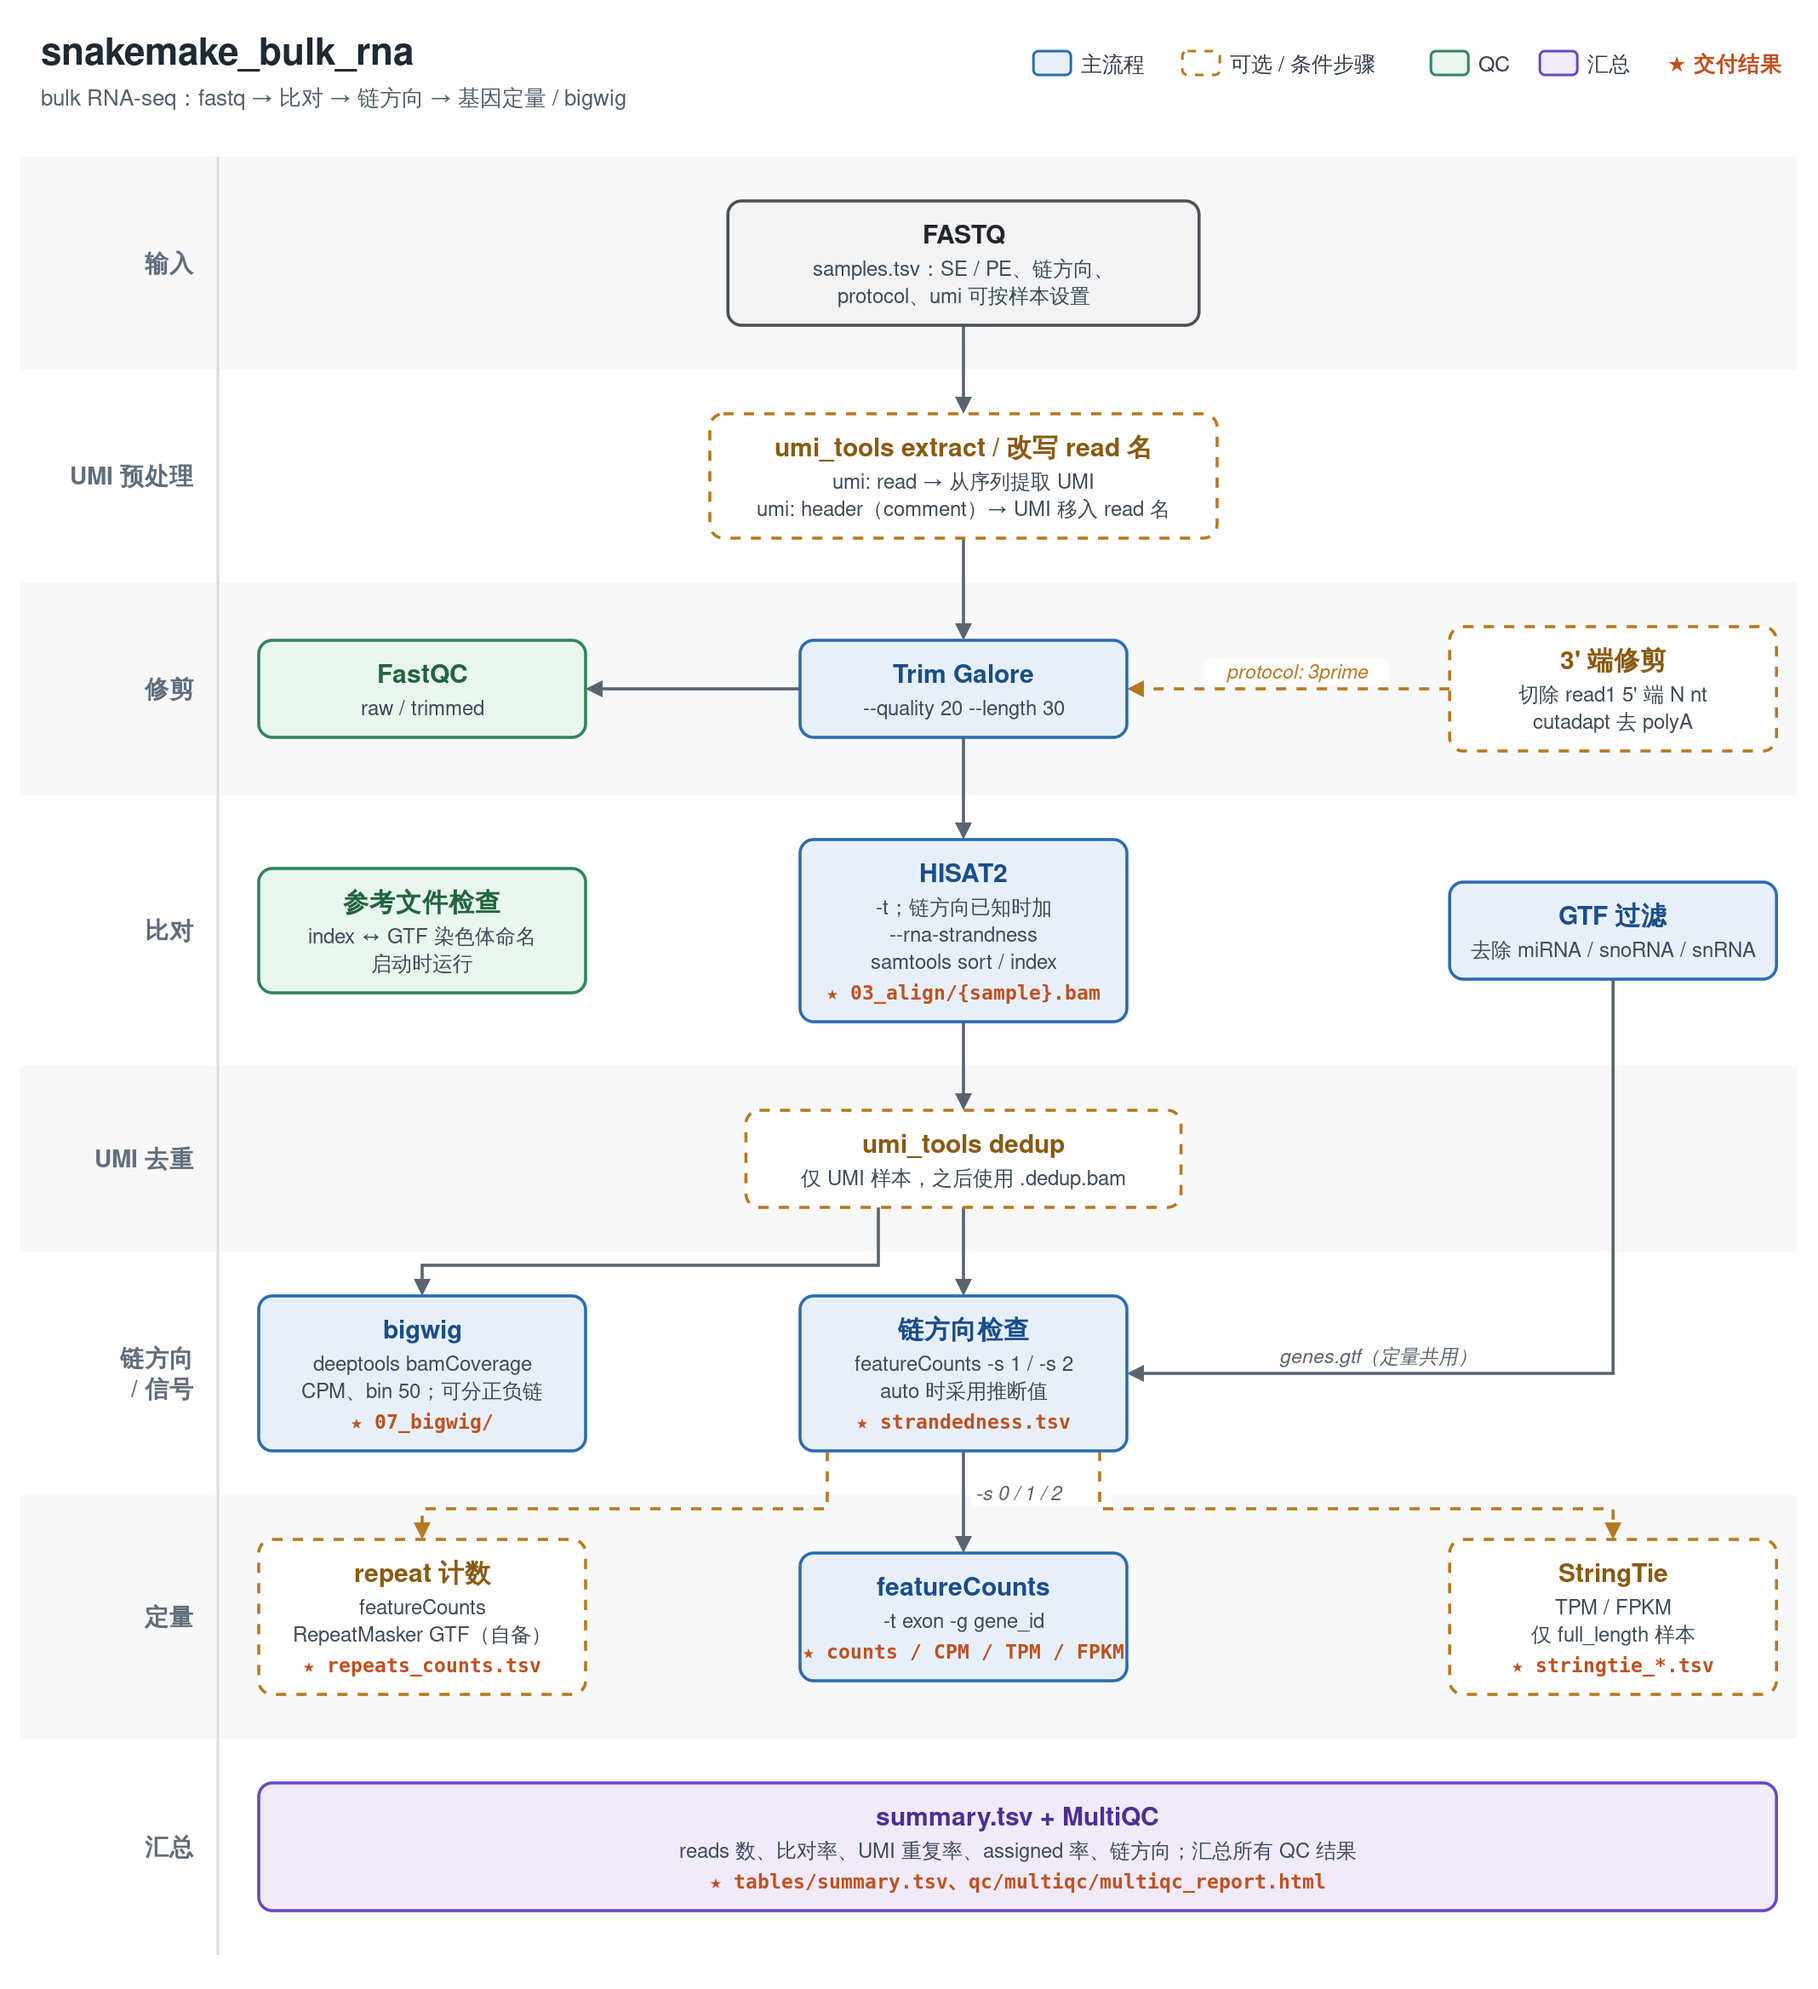
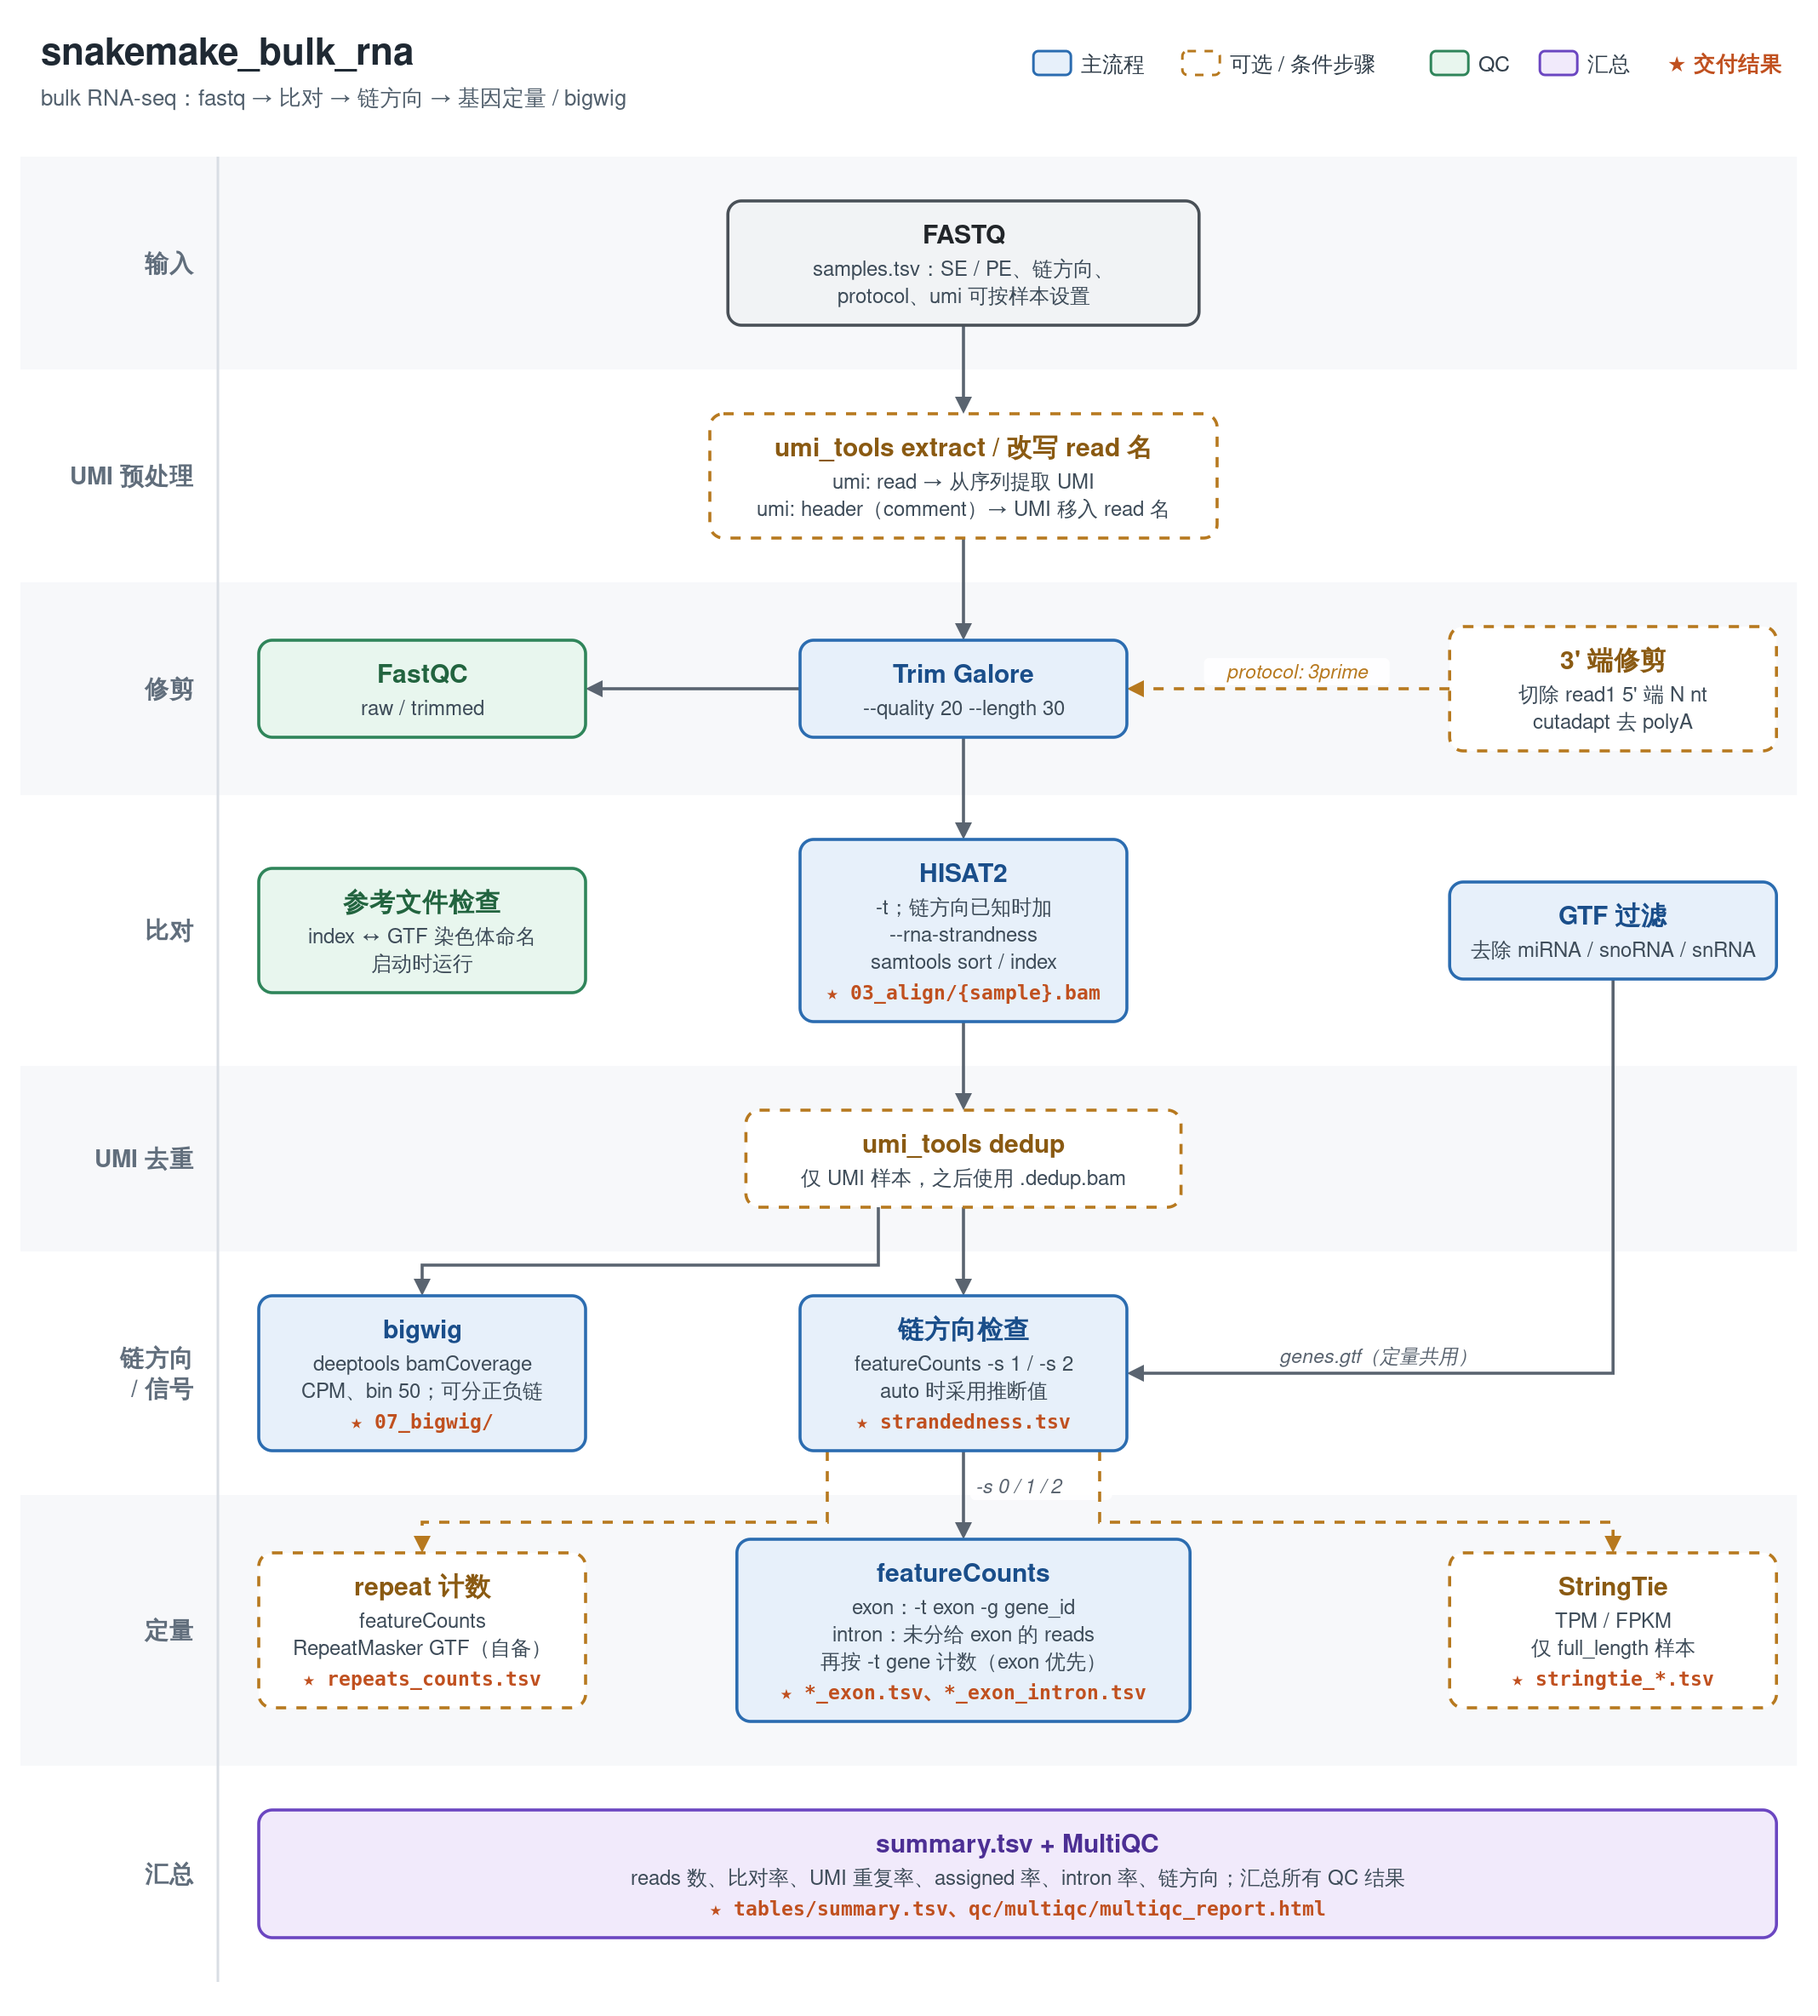
Add exon+intron counts and rename count tables with _exon
Count reads not assigned to exons over the full gene body (exon first,
as in zUMIs) and write counts_exon_intron.tsv / cpm_exon_intron.tsv for
nuclear RNA-seq. Existing tables become counts_exon, cpm_exon, tpm_exon
and fpkm_exon. summary.tsv gains intron_rate (%).

diff --git a/workflow/scripts/merge_counts.py b/workflow/scripts/merge_counts.py
@@ -1,9 +1,11 @@
 """
 合并每个样本的 featureCounts 结果为矩阵（行=基因，列=样本，列顺序与样本表一致）。
 mode:
-  counts      -> counts.tsv + cpm.tsv
-  length      -> tpm.tsv + fpkm.tsv（长度为 featureCounts 的 Length：基因非重叠外显子总长）
-  counts_only -> counts.tsv
+  counts      -> counts + cpm
+  length      -> tpm + fpkm（长度为 featureCounts 的 Length：基因非重叠外显子总长）
+  counts_only -> counts
+input.add（可选）：每个样本另一份 featureCounts 结果（内含子计数），按 gene_id 加到 counts 上；
+                  此时 length 列取自 add 文件（-t gene 的基因全长）。
 """
 import sys
 
@@ -15,12 +17,19 @@ FC_FIXED = ["Geneid", "Chr", "Start", "End", "Strand", "Length"]
 
 samples = list(snakemake.params.samples)
 mode = snakemake.params.mode
-files = list(snakemake.input)
+files = list(snakemake.input.counts)
+add_files = list(snakemake.input.get("add", []))
 assert len(files) == len(samples), "输入文件数与样本数不一致"
+assert not add_files or len(add_files) == len(samples), "add 文件数与样本数不一致"
+
+
+def read_fc(fp):
+    return pd.read_csv(fp, sep="\t", comment="#", dtype={"Geneid": str})
+
 
 annot, counts = None, {}
 for sample, fp in zip(samples, files):
-    df = pd.read_csv(fp, sep="\t", comment="#", dtype={"Geneid": str})
+    df = read_fc(fp)
     extra = [c for c in df.columns[len(FC_FIXED):-1]]  # --extraAttributes 列
     df = df.set_index("Geneid")
     if annot is None:
@@ -31,6 +40,21 @@ for sample, fp in zip(samples, files):
     print(f"{sample}: {fp} assigned={int(df.iloc[:, -1].sum())}", file=sys.stderr)
 
 counts = pd.DataFrame(counts)
+
+if add_files:
+    gene_len = None
+    for sample, fp in zip(samples, add_files):
+        df = read_fc(fp).set_index("Geneid")
+        missing = df.index.difference(counts.index)
+        if len(missing):
+            print(f"WARNING: {fp} 中 {len(missing)} 个基因不在主计数中，已忽略", file=sys.stderr)
+        add = df.iloc[:, -1].reindex(counts.index, fill_value=0)
+        counts[sample] = counts[sample] + add
+        if gene_len is None:
+            gene_len = df["Length"].reindex(counts.index)
+        print(f"{sample}: {fp} added={int(add.sum())}", file=sys.stderr)
+    annot["length"] = gene_len.fillna(annot["length"]).astype(int)
+
 counts.index.name = "gene_id"
 annot.index.name = "gene_id"
 # 注释列放前面: gene_id, gene_name, gene_biotype, ..., length

diff --git a/workflow/scripts/summary.py b/workflow/scripts/summary.py
@@ -9,6 +9,7 @@
   umi_dedup_rate       umi_dedup_reads / raw_reads
   umi_duplicates_rate  (去重前比对上的 reads - umi_dedup_reads) / raw_reads
   assigned_rate        featureCounts Assigned / raw_reads（PE 的 fragment 数 x 2）
+  intron_rate          内含子 reads / raw_reads（未分配给 exon、按基因全长计入的 reads；核 RNA 明显偏高）
 summary.tsv 的 reads 数带千位分隔符，MultiQC 用的表保持纯数字。
 """
 import re
@@ -63,6 +64,7 @@ for i, sample in enumerate(snakemake.params.samples):
     clean = clean * div if clean is not None else None
     mapped = round(clean * rate / 100) if clean is not None and rate is not None else None
     assigned = parse_fc_summary(snakemake.input.counts[i] + ".summary") * div
+    intron = parse_fc_summary(snakemake.input.intron[i] + ".summary") * div
 
     row = {
         "sample": sample,
@@ -82,6 +84,7 @@ for i, sample in enumerate(snakemake.params.samples):
         "umi_dedup_rate (%)": None,
         "umi_duplicates_rate (%)": None,
         "assigned_rate (%)": pct(assigned, raw),
+        "intron_rate (%)": pct(intron, raw),
     }
     if meta["umi"] != "none":
         n_in, n_out = (n * div for n in parse_umi(umi_counts[sample]))

diff --git a/README.md b/README.md
@@ -173,9 +173,11 @@ project/
 ├── samples.tsv                       # 本项目的样本表
 ├── results/
 │   ├── tables/                        # ★ 最终交付
-│   │   ├── counts.tsv                 # gene_id, gene_name, gene_biotype, length, 各样本 counts
-│   │   ├── cpm.tsv
-│   │   ├── tpm.tsv / fpkm.tsv         # 仅 full_length 样本
+│   │   ├── counts_exon.tsv            # gene_id, gene_name, gene_biotype, length, 各样本 counts（只计 exon）
+│   │   ├── cpm_exon.tsv
+│   │   ├── counts_exon_intron.tsv     # exon + intron 计数（核 RNA 用）；length 为基因全长
+│   │   ├── cpm_exon_intron.tsv
+│   │   ├── tpm_exon.tsv / fpkm_exon.tsv   # 仅 full_length 样本，按 exon 长度
 │   │   ├── stringtie_tpm.tsv / stringtie_fpkm.tsv   # 可选
 │   │   ├── repeats_counts.tsv         # 可选
 │   │   ├── strandedness.tsv           # 链方向推断
@@ -201,6 +203,15 @@ project/
         └── software_versions.tsv      # 各软件的版本与实际路径
 ```
 
+**核 RNA（nuclear RNA-seq）**：比对不变，所有样本同时输出两套计数，按数据类型选用：
+
+- `counts_exon.tsv` / `cpm_exon.tsv`：featureCounts `-t exon -g gene_id`，全细胞 RNA 使用。
+- `counts_exon_intron.tsv` / `cpm_exon_intron.tsv`：参考 zUMIs，exon 优先。先按 exon 计数，未分配给 exon 的 reads
+  再按基因全长（`-t gene`）计数并加到 exon 计数上，一条 read 只算一次。核 RNA 含大量未剪接的 pre-mRNA，使用这一套。
+- 两个基因重叠区域（嵌套基因、反义基因）的 reads 会被判为 ambiguous，不计入任何基因，与 exon 计数的规则一致。
+- 内含子计数依赖链方向；非链特异的数据中，重叠基因的内含子 reads 损失会更多。
+- TPM / FPKM 只按 exon 计算。
+
 **summary.tsv 的各列**（reads 按单条 read 计，PE 为 R1 + R2；所有 rate 都以 `raw_reads` 为分母，单位 %；reads 数带千位分隔符）：
 
 | 列 | 含义 |
@@ -213,6 +224,7 @@ project/
 | `mapping_rate (%)` | mapped_reads / raw_reads（与 hisat2 日志中以 clean 为分母的比对率不同） |
 | `umi_dedup_rate (%)` / `umi_duplicates_rate (%)` | 去重后 reads / raw_reads；(去重前比对上的 reads − 去重后) / raw_reads（仅 UMI 样本） |
 | `assigned_rate (%)` | featureCounts 计入基因的 reads / raw_reads（PE 的片段数 × 2） |
+| `intron_rate (%)` | 内含子 reads / raw_reads（见下方"核 RNA"）。全细胞 RNA 通常较低，核 RNA 明显更高 |
 | `strand_*` | 链方向：填写值、推断值、实际使用值、状态 |
 
 ---
